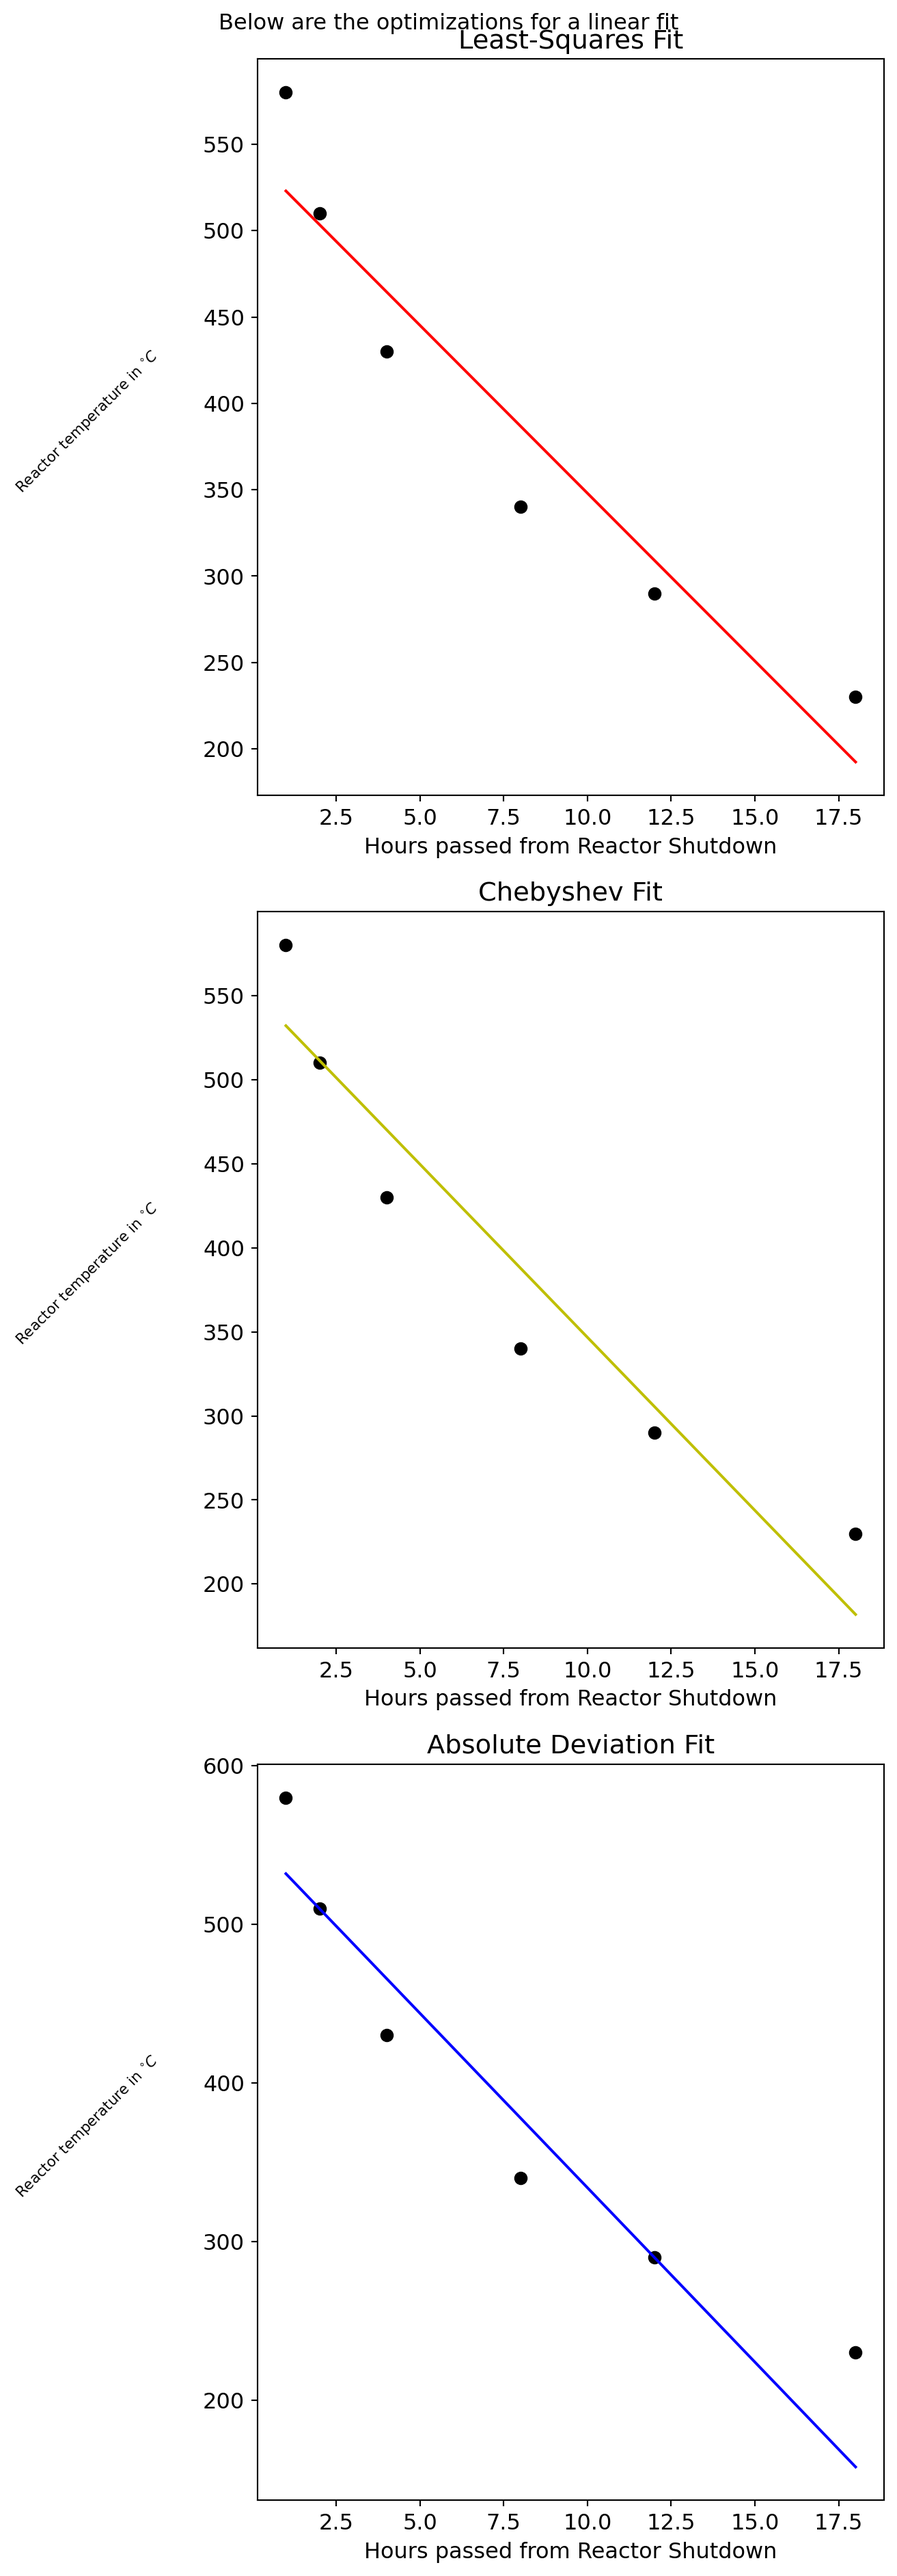
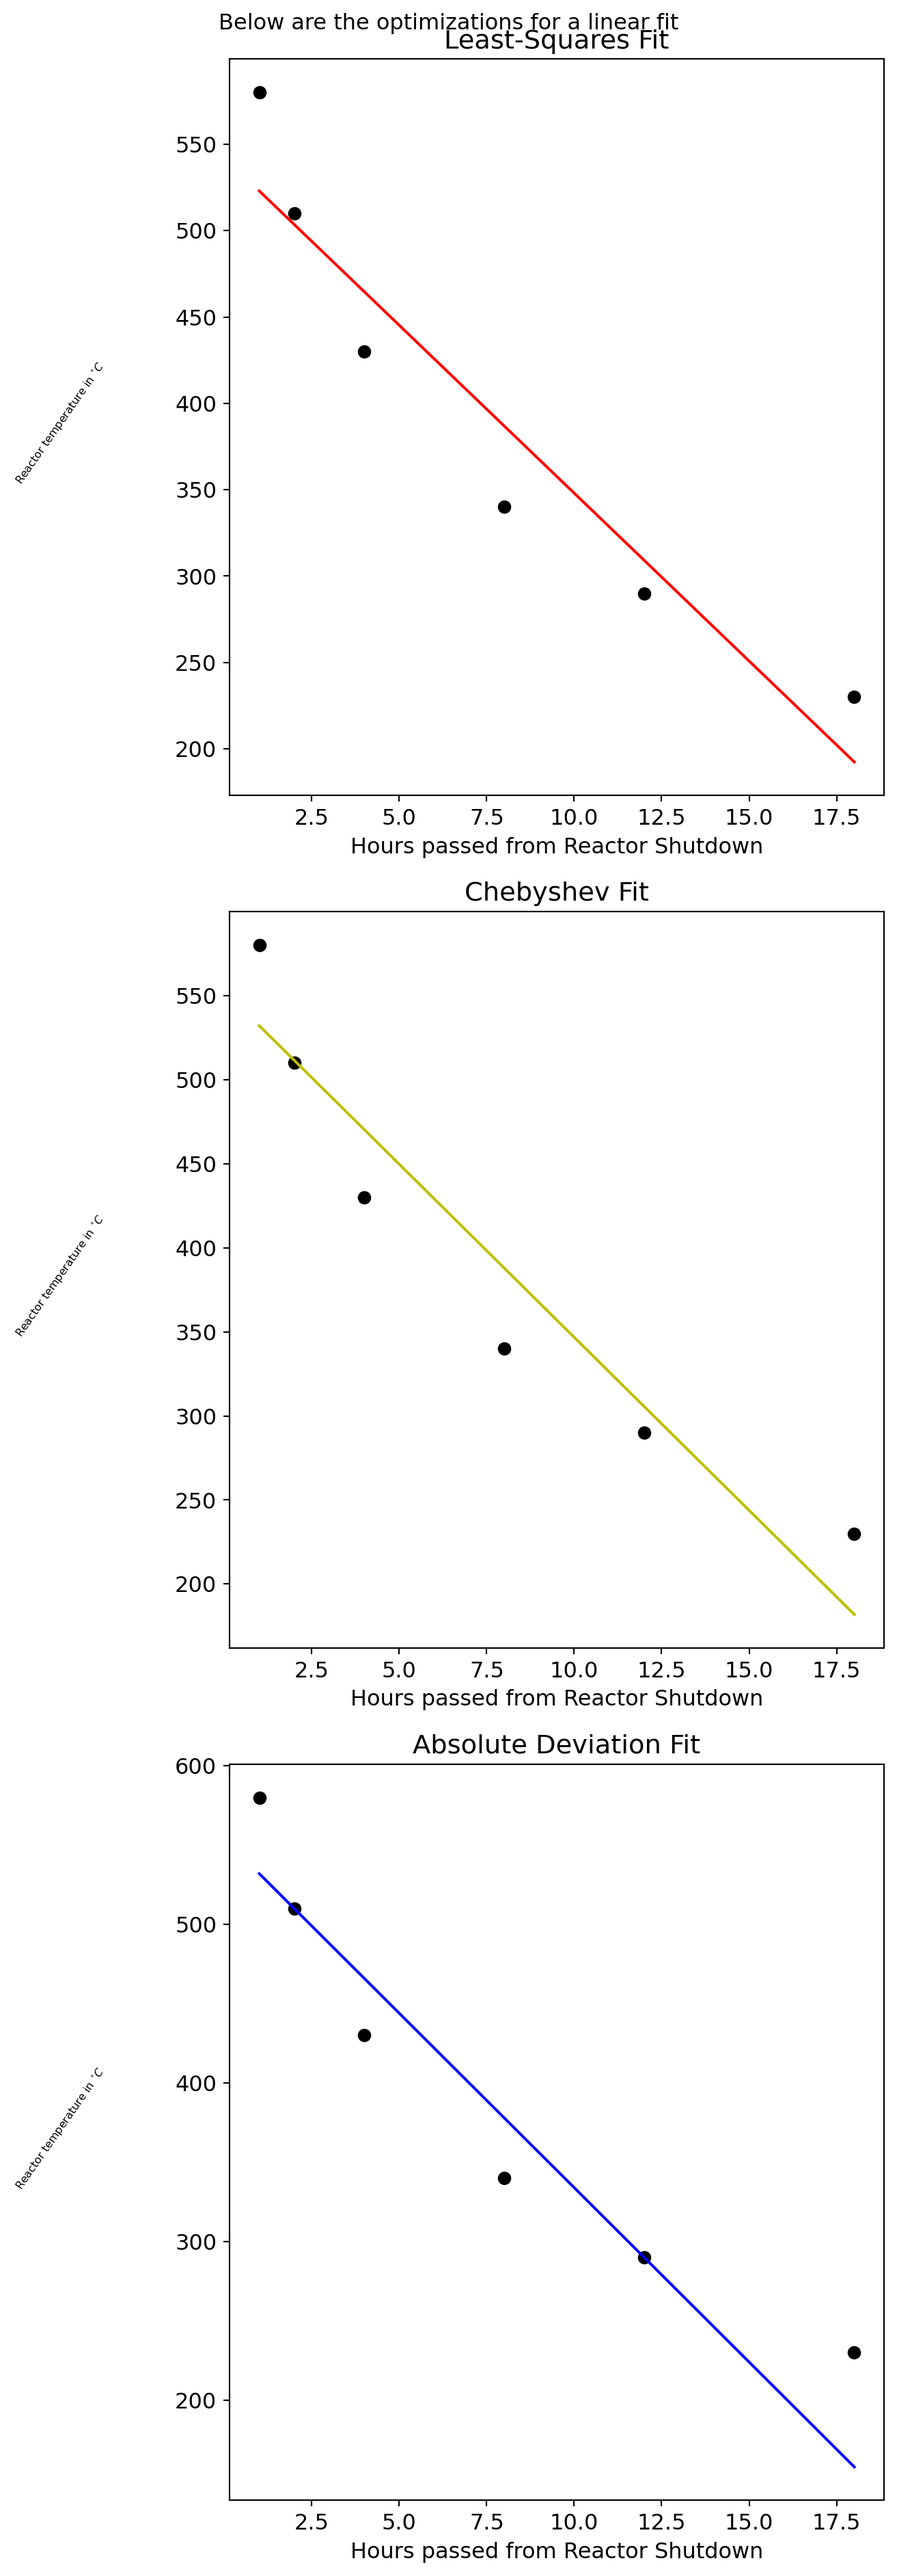
fixed a bunch of mistakes I made trying to fix a bunch of mistakes I made trying to

diff --git a/docs/U03_REPORT.html b/docs/U03_REPORT.html
@@ -292,7 +292,7 @@ window.Quarto = {
 </tr>
 </tbody>
 </table>
-<div id="a4fc4c5e" class="cell" data-execution_count="1">
+<div id="67346007" class="cell" data-execution_count="1">
 <details class="code-fold">
 <summary>Reveal Secrets</summary>
 <div class="code-copy-outer-scaffold"><div class="sourceCode cell-code" id="cb1"><pre class="sourceCode python code-with-copy"><code class="sourceCode python"><span id="cb1-1"><a href="#cb1-1" aria-hidden="true" tabindex="-1"></a><span class="im">import</span> matplotlib.pyplot <span class="im">as</span> plt</span>
@@ -342,10 +342,12 @@ window.Quarto = {
 <section id="linear" class="level2">
 <h2 class="anchored" data-anchor-id="linear">Linear:</h2>
 <p>Of form <span class="math inline">\(T(t)=c_1\cdot t + c_2\)</span>.</p>
-<div id="95958a3d" class="cell" data-execution_count="2">
+<div id="17994d59" class="cell" data-execution_count="2">
 <details class="code-fold">
 <summary>Reveal Secrets</summary>
-<div class="code-copy-outer-scaffold"><div class="sourceCode cell-code" id="cb2"><pre class="sourceCode python code-with-copy"><code class="sourceCode python"><span id="cb2-1"><a href="#cb2-1" aria-hidden="true" tabindex="-1"></a>plotter(X, Y, <span class="st">"linear"</span>)</span></code></pre></div><button title="Copy to Clipboard" class="code-copy-button"><i class="bi"></i></button></div>
+<div class="code-copy-outer-scaffold"><div class="sourceCode cell-code" id="cb2"><pre class="sourceCode python code-with-copy"><code class="sourceCode python"><span id="cb2-1"><a href="#cb2-1" aria-hidden="true" tabindex="-1"></a>poly_deg <span class="op">=</span> <span class="dv">1</span></span>
+<span id="cb2-2"><a href="#cb2-2" aria-hidden="true" tabindex="-1"></a></span>
+<span id="cb2-3"><a href="#cb2-3" aria-hidden="true" tabindex="-1"></a>plotter(X, Y, <span class="st">"linear"</span>, <span class="dv">1</span>)</span></code></pre></div><button title="Copy to Clipboard" class="code-copy-button"><i class="bi"></i></button></div>
 </details>
 <div class="cell-output cell-output-display">
 <div>
@@ -385,9 +387,9 @@ app_ui = ui.page_fluid(
 def server(input: Inputs, output: Outputs, session: Session):
     @render.plot
     def conspiracy():
-        return plotter(X, Y, "polynomial")
+        return plotter(X, Y, "polynomial", input.n())
 
-poly_deg = ui.input_slider.n()
+poly_deg = input.n()
 
 app = App(app_ui, server)
 
@@ -422,7 +424,7 @@ import IPython.display as ipd
 # import shinywidgets as shw
 
 func_types = ["linear", "polynomial", "power", "exponential"]
-poly_deg = 2
+# poly_deg = 2
 """
 poly_deg = int(
     input("What degree of polynomial? Please give your answer as a numeral.")
@@ -431,7 +433,7 @@ poly_deg = int(
 degree_list = ["zeroth", "linear", "quadratic", "cubic", "quartic", "quintic"]
 
 
-def main(X, Y):
+def main(X, Y, n):
     """
     The big Huncho Grande Paparoni: fitting, error analysis, plotting.
     """
@@ -440,7 +442,7 @@ def main(X, Y):
     table_list = []
 
     for func in func_types:
-        f = functionator(X, Y, func)
+        f = functionator(X, Y, func, n)
         X, Y, n, func_type = f[0:5]
 
         # plotter(X, Y, n, func_type)
@@ -467,7 +469,7 @@ def main(X, Y):
     ipd.Markdown(table_du_fromage.to_markdown(index=False))
 
 
-def functionator(X, Y, func_type):
+def functionator(X, Y, func_type, n):
     """
     Takes X, Y, and func type.
     Modifies X and Y if needed
@@ -476,8 +478,7 @@ def functionator(X, Y, func_type):
     fit_type = func_type
 
     if fit_type == "polynomial":
-        n = poly_deg
-        fit_type = degree_list[poly_deg]
+        fit_type = degree_list[n]
     elif fit_type == "exponential":
         Y = np.log(Y)
         n = 1
@@ -830,7 +831,7 @@ def fitter_happier_better(X, Y, n):
     return [exes, LS2, cheb, absdev]
 
 
-def coeff_table(X, Y, func_type):
+def coeff_table(X, Y, func_type, n):
     """
     Takes X, Y, polynomial degree n.
     Grabs fits and returns their parameters
@@ -841,7 +842,7 @@ def coeff_table(X, Y, func_type):
     # for func in func_types:
     table_list = []
 
-    f = functionator(X, Y, func_type)
+    f = functionator(X, Y, func_type, n)
     X, Y, n, func_type = f[0:5]
 
     LS2_coeffs = LS2_fit(X, Y, n)
@@ -872,11 +873,11 @@ def coeff_table(X, Y, func_type):
     ipd.Markdown(table_du_fromage.to_markdown(index=False))
 
 
-def plotter(X, Y, func_type):
+def plotter(X, Y, func_type, n):
     """
     Plots different fit functions for a given data fit type (linear, poly, etc)
     """
-    X, Y, n, func_type = functionator(X, Y, func_type)[0:4]
+    X, Y, n, func_type = functionator(X, Y, func_type, n)[0:4]
 
     exes = fitter_happier_better(X, Y, n)[0]
     LS2 = fitter_happier_better(X, Y, n)[1]
@@ -902,27 +903,27 @@ def plotter(X, Y, func_type):
     ax1.scatter(X, Y, s=pointsize, c=point_color)
     ax1.plot(exes, LS2, color="r")
     ax1.set_xlabel(xlab)
-    ax1.set_ylabel(ylab, rotation=45, labelpad=(dist), fontsize=8)
+    ax1.set_ylabel(ylab, rotation=55, labelpad=(dist), fontsize=6)
     ax1.set_title("Least-Squares Fit")
 
     ax2 = plt.subplot(3, 1, 2)
     ax2.scatter(X, Y, s=pointsize, c=point_color)
     ax2.plot(exes, cheb, color="y")
     ax2.set_xlabel(xlab)
-    ax2.set_ylabel(ylab, rotation=45, labelpad=(dist), fontsize=8)
+    ax2.set_ylabel(ylab, rotation=55, labelpad=(dist), fontsize=6)
     ax2.set_title("Chebyshev Fit")
 
     ax3 = plt.subplot(3, 1, 3)
     plt.scatter(X, Y, s=pointsize, c=point_color)
     plt.plot(exes, absdev, color="b")
     ax3.set_xlabel(xlab)
-    ax3.set_ylabel(ylab, rotation=45, labelpad=(dist), fontsize=8)
+    ax3.set_ylabel(ylab, rotation=55, labelpad=(dist), fontsize=6)
     ax3.set_title("Absolute Deviation Fit")
 
 
-def temp_finder(X, Y):
+def temp_finder(X, Y, n):
     """
-    Takes X, Y, then obtains
+    Takes X, Y, n then obtains
     user input for time since
     reactor shutdown (Will add this feature later).
     Returns projected temp
@@ -935,7 +936,7 @@ def temp_finder(X, Y):
     """
 
     x = 24
-    X, Y, n = functionator(X, Y, "exponential")[0:3]
+    X, Y, n = functionator(X, Y, "exponential", n)[0:3]
 
     # LS2_coeffs = LS2_fit(X, Y, n)
     cheb_coeffs = chebyshevify(X, Y, n)
@@ -954,7 +955,7 @@ X = [1, 2, 4, 8, 12, 18]
 Y = [580, 510, 430, 340, 290, 230]
 
 if __name__ == "__main__":
-    main(X, Y)
+    main(X, Y, n=2)
 # coeff_table(X, Y, "linear")
 # temp_finder(X, Y)
 # plotter(X, Y, "polynomial")

diff --git a/docs/CH_3_PROB_7_example.html b/docs/CH_3_PROB_7_example.html
@@ -268,7 +268,7 @@ window.Quarto = {
 <li><p>We’ll use the <code>error_analyzer()</code> function from the <code>data_fitting.py</code> file (original work copyright 2026) to obtain the cumulative LS2 error. This file is available via <a href="https://github.com/GrandSlamVanDamme/math_283_U03_collab">public github repo</a>.</p></li>
 <li><p>We’ll plot the original data against the lines of fit for a visual comparison.</p></li>
 </ol>
-<div id="c2f230de" class="cell" data-execution_count="1">
+<div id="27c7c8ef" class="cell" data-execution_count="1">
 <details class="code-fold">
 <summary>Reveal Secrets</summary>
 <div class="code-copy-outer-scaffold"><div class="sourceCode cell-code" id="cb1"><pre class="sourceCode python code-with-copy"><code class="sourceCode python"><span id="cb1-1"><a href="#cb1-1" aria-hidden="true" tabindex="-1"></a> <span class="co"># import the packages we need:</span></span>
@@ -337,9 +337,9 @@ window.Quarto = {
 <span id="cb1-64"><a href="#cb1-64" aria-hidden="true" tabindex="-1"></a><span class="co">'''</span></span></code></pre></div><button title="Copy to Clipboard" class="code-copy-button"><i class="bi"></i></button></div>
 </details>
 <div class="cell-output cell-output-stderr">
-<pre><code>/var/folders/ds/63b_7b1n3wx7f9wg6r78c57w0000gn/T/ipykernel_1141/1147187601.py:49: UserWarning: No artists with labels found to put in legend.  Note that artists whose label start with an underscore are ignored when legend() is called with no argument.
+<pre><code>/var/folders/ds/63b_7b1n3wx7f9wg6r78c57w0000gn/T/ipykernel_1905/1147187601.py:49: UserWarning: No artists with labels found to put in legend.  Note that artists whose label start with an underscore are ignored when legend() is called with no argument.
   plt.legend()
-/var/folders/ds/63b_7b1n3wx7f9wg6r78c57w0000gn/T/ipykernel_1141/1147187601.py:55: UserWarning: No artists with labels found to put in legend.  Note that artists whose label start with an underscore are ignored when legend() is called with no argument.
+/var/folders/ds/63b_7b1n3wx7f9wg6r78c57w0000gn/T/ipykernel_1905/1147187601.py:55: UserWarning: No artists with labels found to put in legend.  Note that artists whose label start with an underscore are ignored when legend() is called with no argument.
   plt.legend()</code></pre>
 </div>
 <div class="cell-output cell-output-display" data-execution_count="1">
@@ -355,7 +355,7 @@ window.Quarto = {
 </div>
 <p>Here are our results.</p>
 <p>First, let’s look at the linear fit <span class="math inline">\(f(x)=c_1x+c_2\)</span>.</p>
-<div id="ff829011" class="cell" data-execution_count="2">
+<div id="25b7580a" class="cell" data-execution_count="2">
 <details class="code-fold">
 <summary>Reveal Secrets</summary>
 <div class="code-copy-outer-scaffold"><div class="sourceCode cell-code" id="cb4"><pre class="sourceCode python code-with-copy"><code class="sourceCode python"><span id="cb4-1"><a href="#cb4-1" aria-hidden="true" tabindex="-1"></a><span class="bu">print</span>(<span class="st">'RESULTS'</span>)</span>
@@ -372,7 +372,7 @@ We found a least squares error of 2.7000000000000006</code></pre>
 </div>
 </div>
 <p>Now, let’s see if the quadratic fit <span class="math inline">\(f(x)=c_1x^2+c_2x+c_3\)</span> looks any better.</p>
-<div id="741fc86b" class="cell" data-execution_count="3">
+<div id="2d59b357" class="cell" data-execution_count="3">
 <details class="code-fold">
 <summary>Reveal Secrets</summary>
 <div class="code-copy-outer-scaffold"><div class="sourceCode cell-code" id="cb6"><pre class="sourceCode python code-with-copy"><code class="sourceCode python"><span id="cb6-1"><a href="#cb6-1" aria-hidden="true" tabindex="-1"></a><span class="bu">print</span>(<span class="st">'RESULTS'</span>)</span>

diff --git a/docs/brainstorm_2.html b/docs/brainstorm_2.html
@@ -204,7 +204,7 @@ pre > code.sourceCode > span > a:first-child::before { text-decoration: underlin
 <section id="step-5-analysis-and-optimization." class="level2">
 <h2 class="anchored" data-anchor-id="step-5-analysis-and-optimization.">Step 5: Analysis and Optimization.</h2>
 <p>Writing a python function to perform analysis and optimization.</p>
-<div id="f393f005" class="cell" data-execution_count="1">
+<div id="41b3b0bb" class="cell" data-execution_count="1">
 <details class="code-fold">
 <summary>Reveal Secrets</summary>
 <div class="code-copy-outer-scaffold"><div class="sourceCode cell-code" id="cb1"><pre class="sourceCode python code-with-copy"><code class="sourceCode python"><span id="cb1-1"><a href="#cb1-1" aria-hidden="true" tabindex="-1"></a><span class="im">import</span> numpy <span class="im">as</span> num</span>
@@ -215,7 +215,7 @@ pre > code.sourceCode > span > a:first-child::before { text-decoration: underlin
 <span id="cb1-6"><a href="#cb1-6" aria-hidden="true" tabindex="-1"></a>X <span class="op">=</span> [<span class="dv">1</span>,<span class="dv">2</span>,<span class="dv">4</span>,<span class="dv">8</span>,<span class="dv">12</span>,<span class="dv">18</span>]</span>
 <span id="cb1-7"><a href="#cb1-7" aria-hidden="true" tabindex="-1"></a>Y <span class="op">=</span> [<span class="dv">580</span>, <span class="dv">510</span>, <span class="dv">430</span>, <span class="dv">340</span>, <span class="dv">290</span>, <span class="dv">230</span>]</span>
 <span id="cb1-8"><a href="#cb1-8" aria-hidden="true" tabindex="-1"></a></span>
-<span id="cb1-9"><a href="#cb1-9" aria-hidden="true" tabindex="-1"></a>main(X, Y)</span></code></pre></div><button title="Copy to Clipboard" class="code-copy-button"><i class="bi"></i></button></div>
+<span id="cb1-9"><a href="#cb1-9" aria-hidden="true" tabindex="-1"></a>main(X, Y, n<span class="op">=</span><span class="dv">2</span>)</span></code></pre></div><button title="Copy to Clipboard" class="code-copy-button"><i class="bi"></i></button></div>
 </details>
 <div class="cell-output cell-output-display">
 <div>
@@ -246,9 +246,9 @@ pre > code.sourceCode > span > a:first-child::before { text-decoration: underlin
 </tr>
 <tr class="even">
 <th data-quarto-table-cell-role="th">polynomial</th>
-<td>1430.411411</td>
-<td>196.910783</td>
-<td>19.350649</td>
+<td>8466.511988</td>
+<td>194.000050</td>
+<td>47.941176</td>
 </tr>
 <tr class="odd">
 <th data-quarto-table-cell-role="th">power</th>

diff --git a/data_fitting.py b/data_fitting.py
@@ -25,7 +25,7 @@ import IPython.display as ipd
 # import shinywidgets as shw
 
 func_types = ["linear", "polynomial", "power", "exponential"]
-poly_deg = 2
+# poly_deg = 2
 """
 poly_deg = int(
     input("What degree of polynomial? Please give your answer as a numeral.")
@@ -34,7 +34,7 @@ poly_deg = int(
 degree_list = ["zeroth", "linear", "quadratic", "cubic", "quartic", "quintic"]
 
 
-def main(X, Y):
+def main(X, Y, n):
     """
     The big Huncho Grande Paparoni: fitting, error analysis, plotting.
     """
@@ -43,7 +43,7 @@ def main(X, Y):
     table_list = []
 
     for func in func_types:
-        f = functionator(X, Y, func)
+        f = functionator(X, Y, func, n)
         X, Y, n, func_type = f[0:5]
 
         # plotter(X, Y, n, func_type)
@@ -70,7 +70,7 @@ def main(X, Y):
     ipd.Markdown(table_du_fromage.to_markdown(index=False))
 
 
-def functionator(X, Y, func_type):
+def functionator(X, Y, func_type, n):
     """
     Takes X, Y, and func type.
     Modifies X and Y if needed
@@ -79,8 +79,7 @@ def functionator(X, Y, func_type):
     fit_type = func_type
 
     if fit_type == "polynomial":
-        n = poly_deg
-        fit_type = degree_list[poly_deg]
+        fit_type = degree_list[n]
     elif fit_type == "exponential":
         Y = np.log(Y)
         n = 1
@@ -433,7 +432,7 @@ def fitter_happier_better(X, Y, n):
     return [exes, LS2, cheb, absdev]
 
 
-def coeff_table(X, Y, func_type):
+def coeff_table(X, Y, func_type, n):
     """
     Takes X, Y, polynomial degree n.
     Grabs fits and returns their parameters
@@ -444,7 +443,7 @@ def coeff_table(X, Y, func_type):
     # for func in func_types:
     table_list = []
 
-    f = functionator(X, Y, func_type)
+    f = functionator(X, Y, func_type, n)
     X, Y, n, func_type = f[0:5]
 
     LS2_coeffs = LS2_fit(X, Y, n)
@@ -475,11 +474,11 @@ def coeff_table(X, Y, func_type):
     ipd.Markdown(table_du_fromage.to_markdown(index=False))
 
 
-def plotter(X, Y, func_type):
+def plotter(X, Y, func_type, n):
     """
     Plots different fit functions for a given data fit type (linear, poly, etc)
     """
-    X, Y, n, func_type = functionator(X, Y, func_type)[0:4]
+    X, Y, n, func_type = functionator(X, Y, func_type, n)[0:4]
 
     exes = fitter_happier_better(X, Y, n)[0]
     LS2 = fitter_happier_better(X, Y, n)[1]
@@ -505,27 +504,27 @@ def plotter(X, Y, func_type):
     ax1.scatter(X, Y, s=pointsize, c=point_color)
     ax1.plot(exes, LS2, color="r")
     ax1.set_xlabel(xlab)
-    ax1.set_ylabel(ylab, rotation=45, labelpad=(dist), fontsize=8)
+    ax1.set_ylabel(ylab, rotation=55, labelpad=(dist), fontsize=6)
     ax1.set_title("Least-Squares Fit")
 
     ax2 = plt.subplot(3, 1, 2)
     ax2.scatter(X, Y, s=pointsize, c=point_color)
     ax2.plot(exes, cheb, color="y")
     ax2.set_xlabel(xlab)
-    ax2.set_ylabel(ylab, rotation=45, labelpad=(dist), fontsize=8)
+    ax2.set_ylabel(ylab, rotation=55, labelpad=(dist), fontsize=6)
     ax2.set_title("Chebyshev Fit")
 
     ax3 = plt.subplot(3, 1, 3)
     plt.scatter(X, Y, s=pointsize, c=point_color)
     plt.plot(exes, absdev, color="b")
     ax3.set_xlabel(xlab)
-    ax3.set_ylabel(ylab, rotation=45, labelpad=(dist), fontsize=8)
+    ax3.set_ylabel(ylab, rotation=55, labelpad=(dist), fontsize=6)
     ax3.set_title("Absolute Deviation Fit")
 
 
-def temp_finder(X, Y):
+def temp_finder(X, Y, n):
     """
-    Takes X, Y, then obtains
+    Takes X, Y, n then obtains
     user input for time since
     reactor shutdown (Will add this feature later).
     Returns projected temp
@@ -538,7 +537,7 @@ def temp_finder(X, Y):
     """
 
     x = 24
-    X, Y, n = functionator(X, Y, "exponential")[0:3]
+    X, Y, n = functionator(X, Y, "exponential", n)[0:3]
 
     # LS2_coeffs = LS2_fit(X, Y, n)
     cheb_coeffs = chebyshevify(X, Y, n)
@@ -557,7 +556,7 @@ X = [1, 2, 4, 8, 12, 18]
 Y = [580, 510, 430, 340, 290, 230]
 
 if __name__ == "__main__":
-    main(X, Y)
+    main(X, Y, n=2)
 # coeff_table(X, Y, "linear")
 # temp_finder(X, Y)
 # plotter(X, Y, "polynomial")
